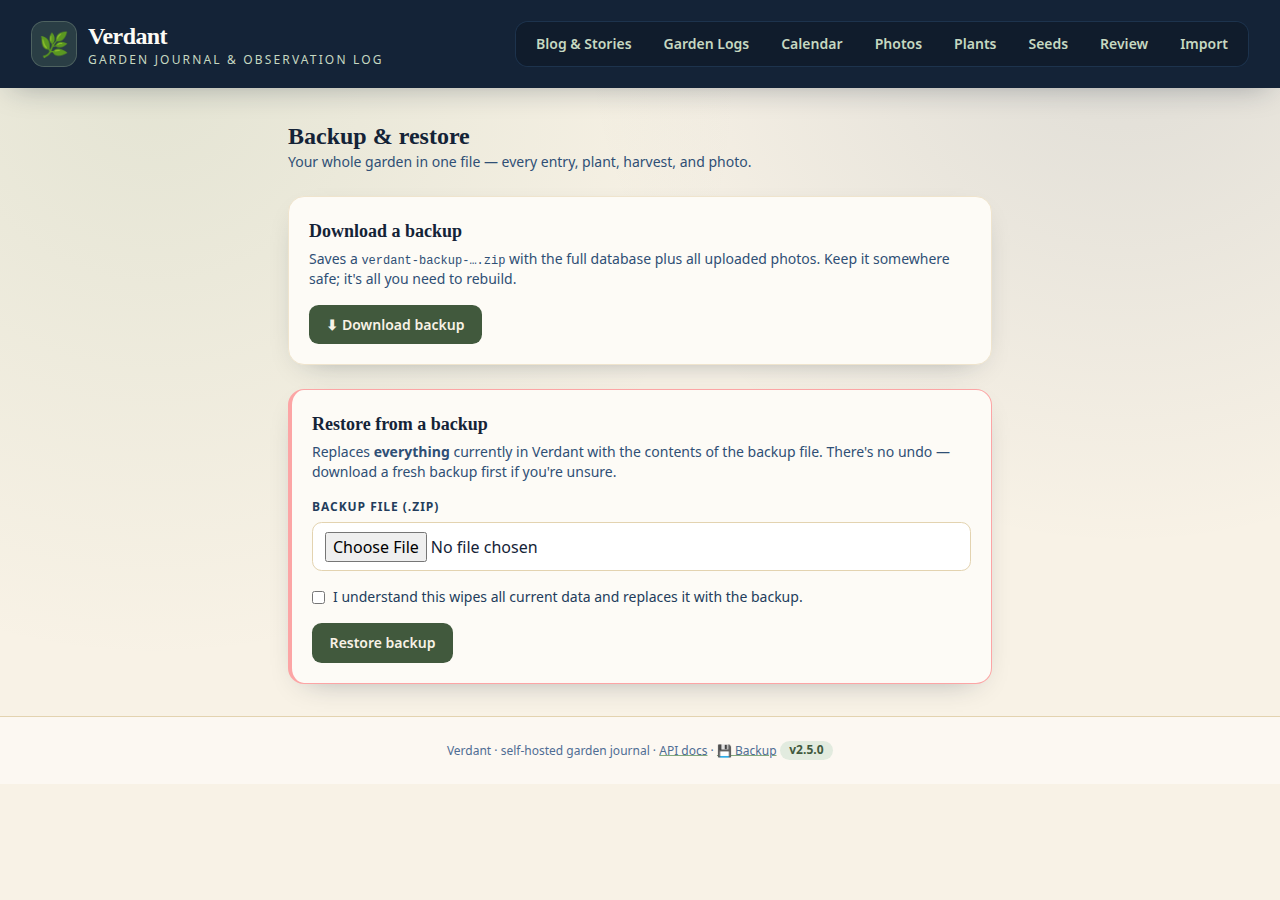
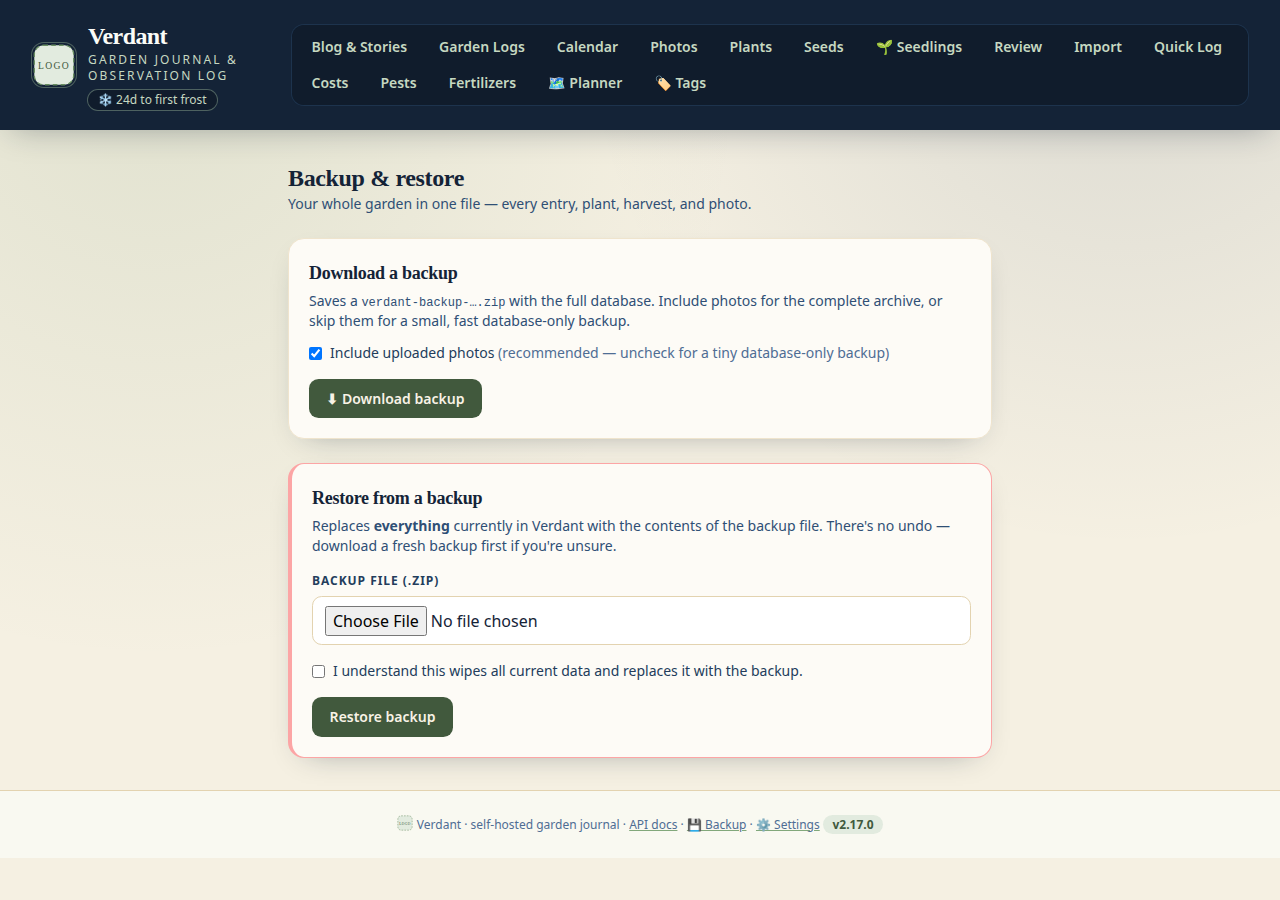
docs: re-shoot all screenshots in the new visual style, refresh README tour
- All 26 screenshots re-shot against the current UI (navy header,
  'Garden Logs' nav label, new settings page, full-screen slideshow)
- observations.png now shows the Observations section of Garden Logs
- planner-heatmap.png demonstrates the yield heatmap + rotation warnings
  with a seeded 2025 season (was showing 'no past season' toast)
- packet-library-picker.png re-shot showing the library modal
- README prose: Garden Logs section reflects the merged observations +
  fertilization page; new Settings section; slideshow callout in Photos;
  new 'Tips & tricks' section (NFC workflows, keyboard matching,
  cost tagging, back-of-packet photos, copy-season, re-runnable CSVs)
- Removed 3 orphaned old-style screenshots no longer referenced

Changed region(s): [[0.0, 0.0, 1.0, 0.8711], [0.3125, 0.9022, 0.6875, 0.9333], [0.6875, 0.0311, 0.9688, 0.0622]]

diff --git a/README.md b/README.md
@@ -36,10 +36,12 @@ on the plant's profile, with a lightbox on click.
 
 ![Plant photo gallery](docs/screenshots/plant-photos.png)
 
-### 👀 Observations — the daily log
+### 📝 Garden Logs — the daily log
 Log health (1–10), watering, pest sightings, and freeform notes per plant, per
-day — with photos attached. New observations are automatically stamped with the
-current weather at your garden (free Open-Meteo data, no API key needed).
+day — with photos attached. Feedings live here too, with the feeding form
+suggesting from your 🧪 Fertilizer shelf. New observations are automatically
+stamped with the current weather at your garden (free Open-Meteo data, no API
+key needed).
 
 ![Observation log](docs/screenshots/observations.png)
 
@@ -60,6 +62,11 @@ date, camera, GPS, and tags, and assign it to a plant with a keystroke.
 Bulk-assign a whole day's photos at once when you already know what they are.
 
 ![Match photos to plants](docs/screenshots/match.png)
+
+There's also a dedicated full-screen slideshow page — pick an album, pick an
+interval, and let the garden scroll by on a TV or tablet.
+
+![Full-screen slideshow](docs/screenshots/slideshow.png)
 
 ### 🌰 Seeds — sources & vendors
 Track where every seed came from: vendors, trades, or saved seed. Grouped by
@@ -194,6 +201,15 @@ before upgrades.
 
 ![Backup & restore](docs/screenshots/backup.png)
 
+### ⚙ Settings — your garden's particulars
+USDA zone, last/first frost dates (exact dates beat zone averages), temperature
+units, which day your calendar week starts on, default harvest weight unit,
+slideshow autoplay interval, and the morning digest schedule — all on one page.
+The frost dates drive the "days to first frost" countdown in the header and
+tune the seed-starting calendar on the Plants page.
+
+![Settings](docs/screenshots/settings.png)
+
 ### 🌅 Morning Digest — Discord
 An optional daily "morning garden check" sent to a Discord channel via webhook:
 what's overdue, what's due today, what's coming up. Off by default — set
@@ -203,6 +219,39 @@ what's overdue, what's due today, what's coming up. Off by default — set
 Browse albums on your own Immich server and import their photos straight into
 Verdant — no downloading and re-uploading. Needs `IMMICH_BASE_URL` and
 `IMMICH_API_KEY` (see [Configuration](#configuration)).
+
+## Tips & tricks
+
+A few workflows that aren't obvious until you've lived in the app a while:
+
+- **NFC-tag everything you touch.** A tag on the fertilizer bottle opens the
+  feeding form with that product pre-selected; one on the seed binder opens
+  "add packet"; one per grow bag opens that plant's profile. Write the tag's
+  URL once with any NFC writer app — no app needed to read them.
+- **Quick Log belongs on your phone's home screen.** It's built for dirty
+  hands: one-tap watering per location, a harvest stepper, and it works fine
+  as a home-screen bookmark over your LAN.
+- **Match photos with the keyboard.** On the 🎯 Match photos page, `←`/`→`
+  flip through photos and number keys pick the plant — a 600-photo album goes
+  fast. Bulk-assign a whole day when you know what it is.
+- **Merge duplicates after an Immich import.** If an old import ran twice,
+  🧹 Merge duplicates folds the copies into the fullest album instead of you
+  deleting things by hand.
+- **Tag costs to a plant.** The Season scorecard can only split spending per
+  variety if purchases are tagged — do it at entry time and the year-end
+  "was it worth growing?" math is free.
+- **Photograph the back of the packet too.** The growing info on the reverse
+  is the part you actually need in April; the ⇄ flip button keeps both sides
+  on the packet card.
+- **Copy the season in the planner.** January: copy last season's layout,
+  drag things to their new spots, and the rotation check tells you where you
+  planted the same family last year.
+- **CSV imports are re-runnable.** The importer skips rows it already has
+  (exported IDs are preserved), so re-importing a fixed file never creates
+  duplicates. Import in the suggested order: locations → plants → the rest.
+- **Database-only backups are fast.** Uncheck the photos box for a small zip
+  you can grab before every upgrade; keep a full one with photos somewhere
+  safe monthly.
 
 ## Quick start (Docker — recommended)
 
